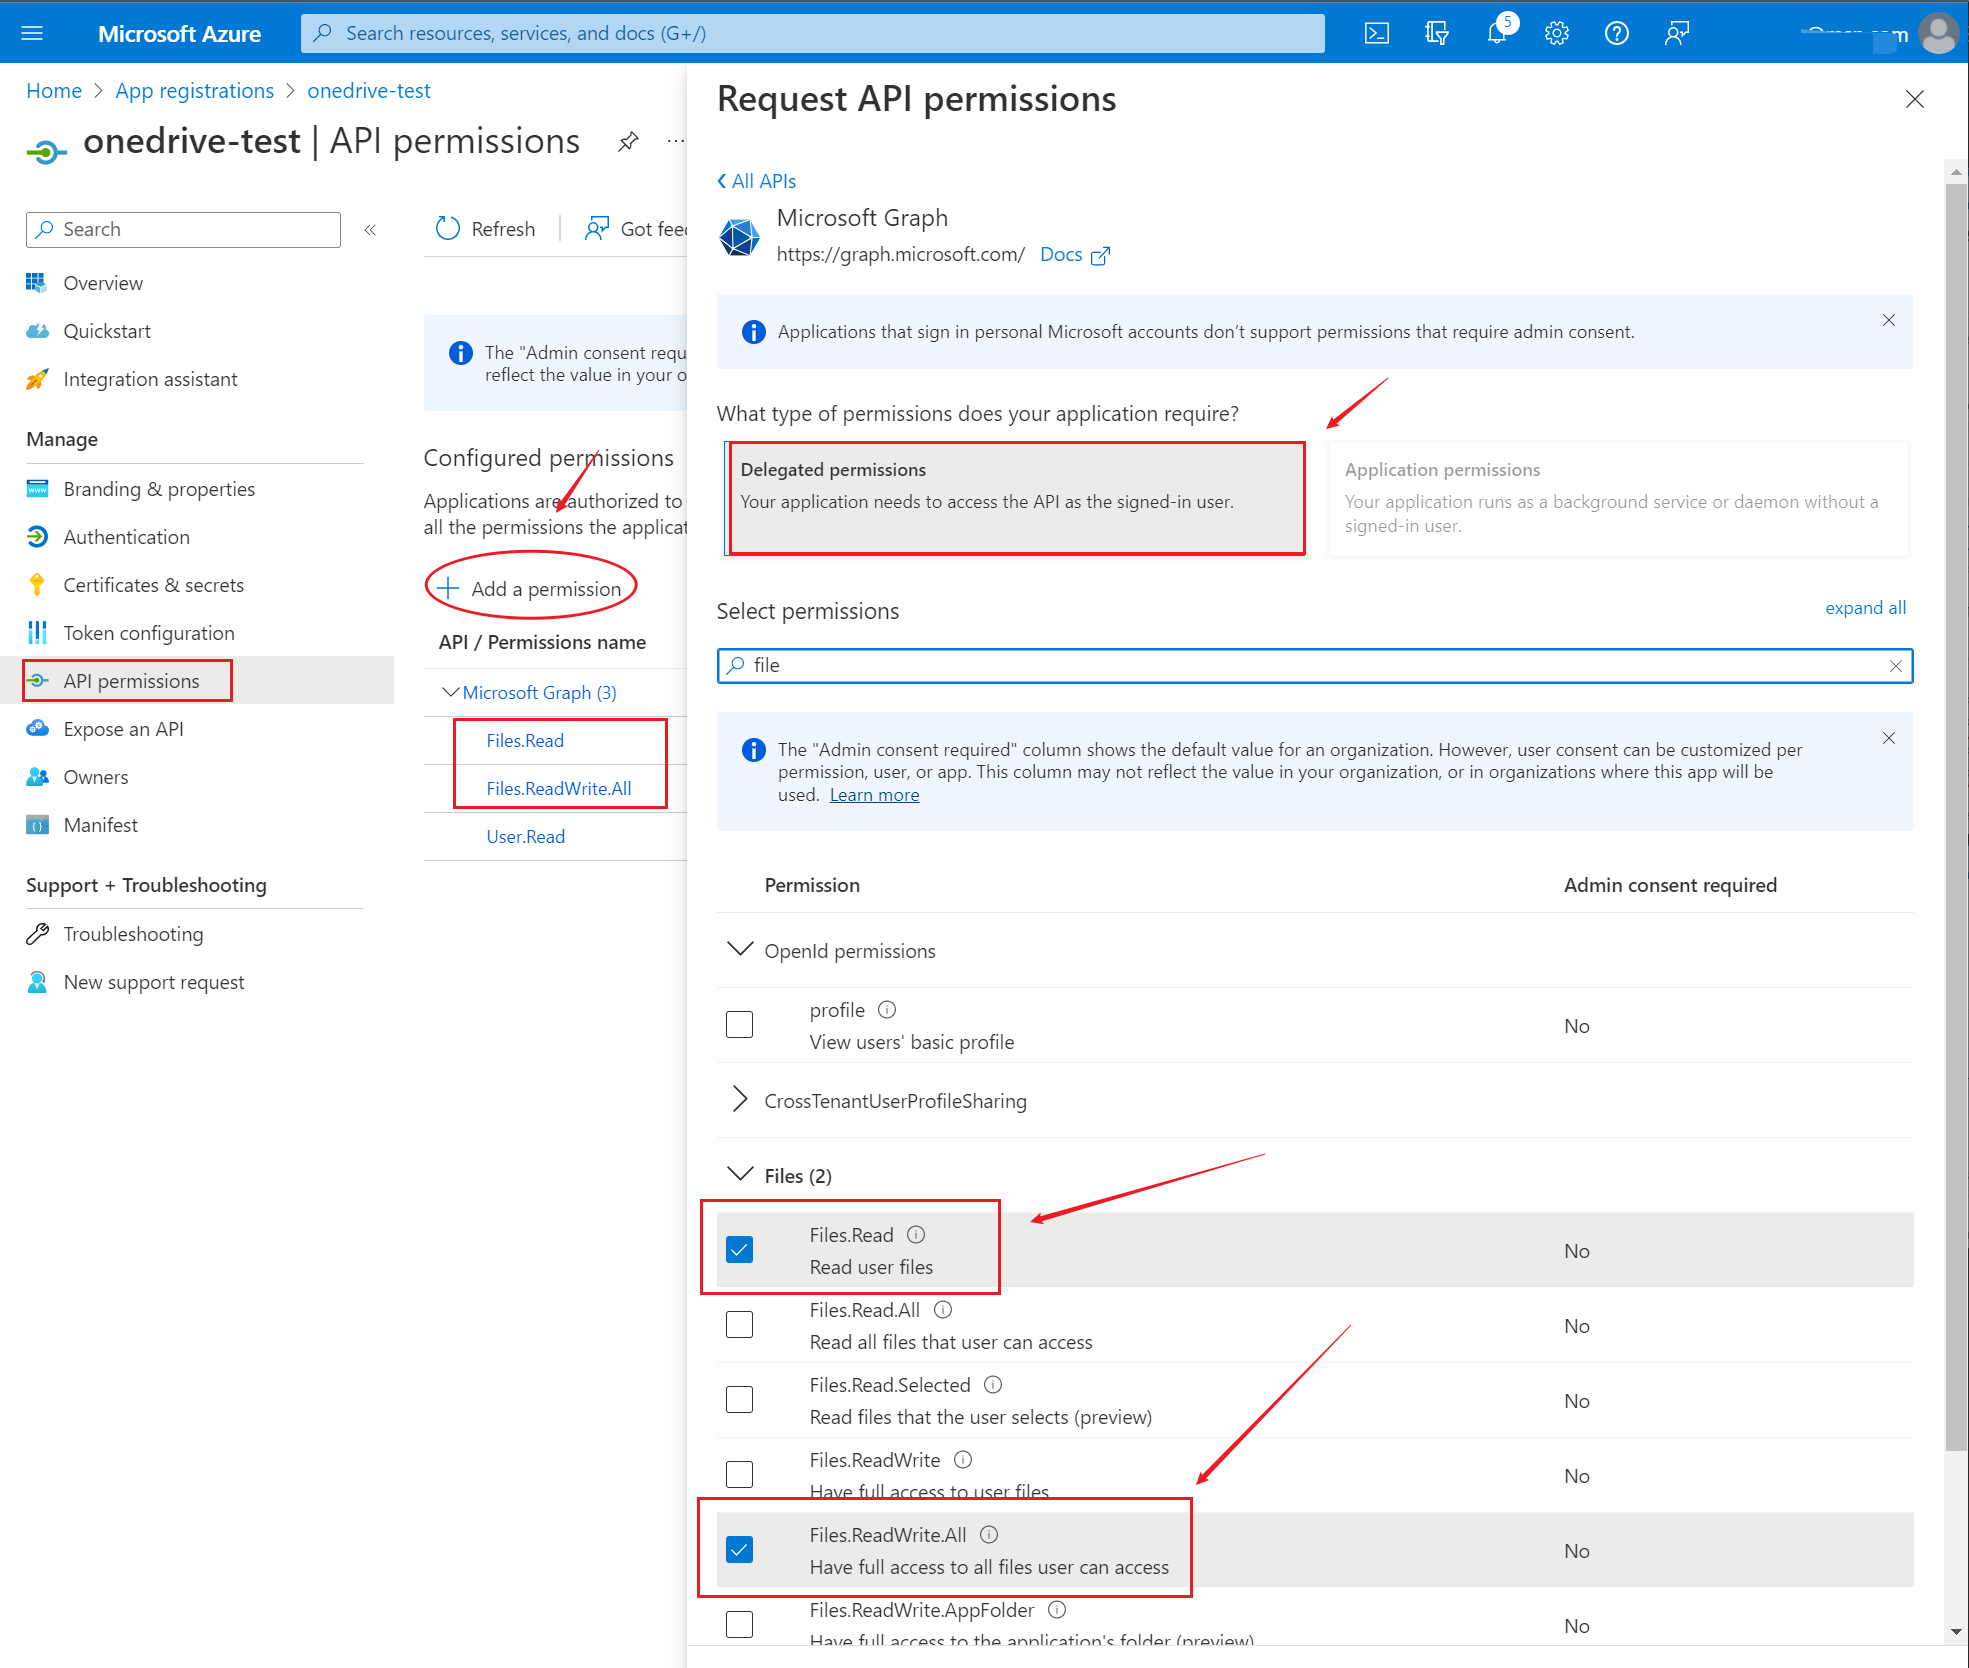
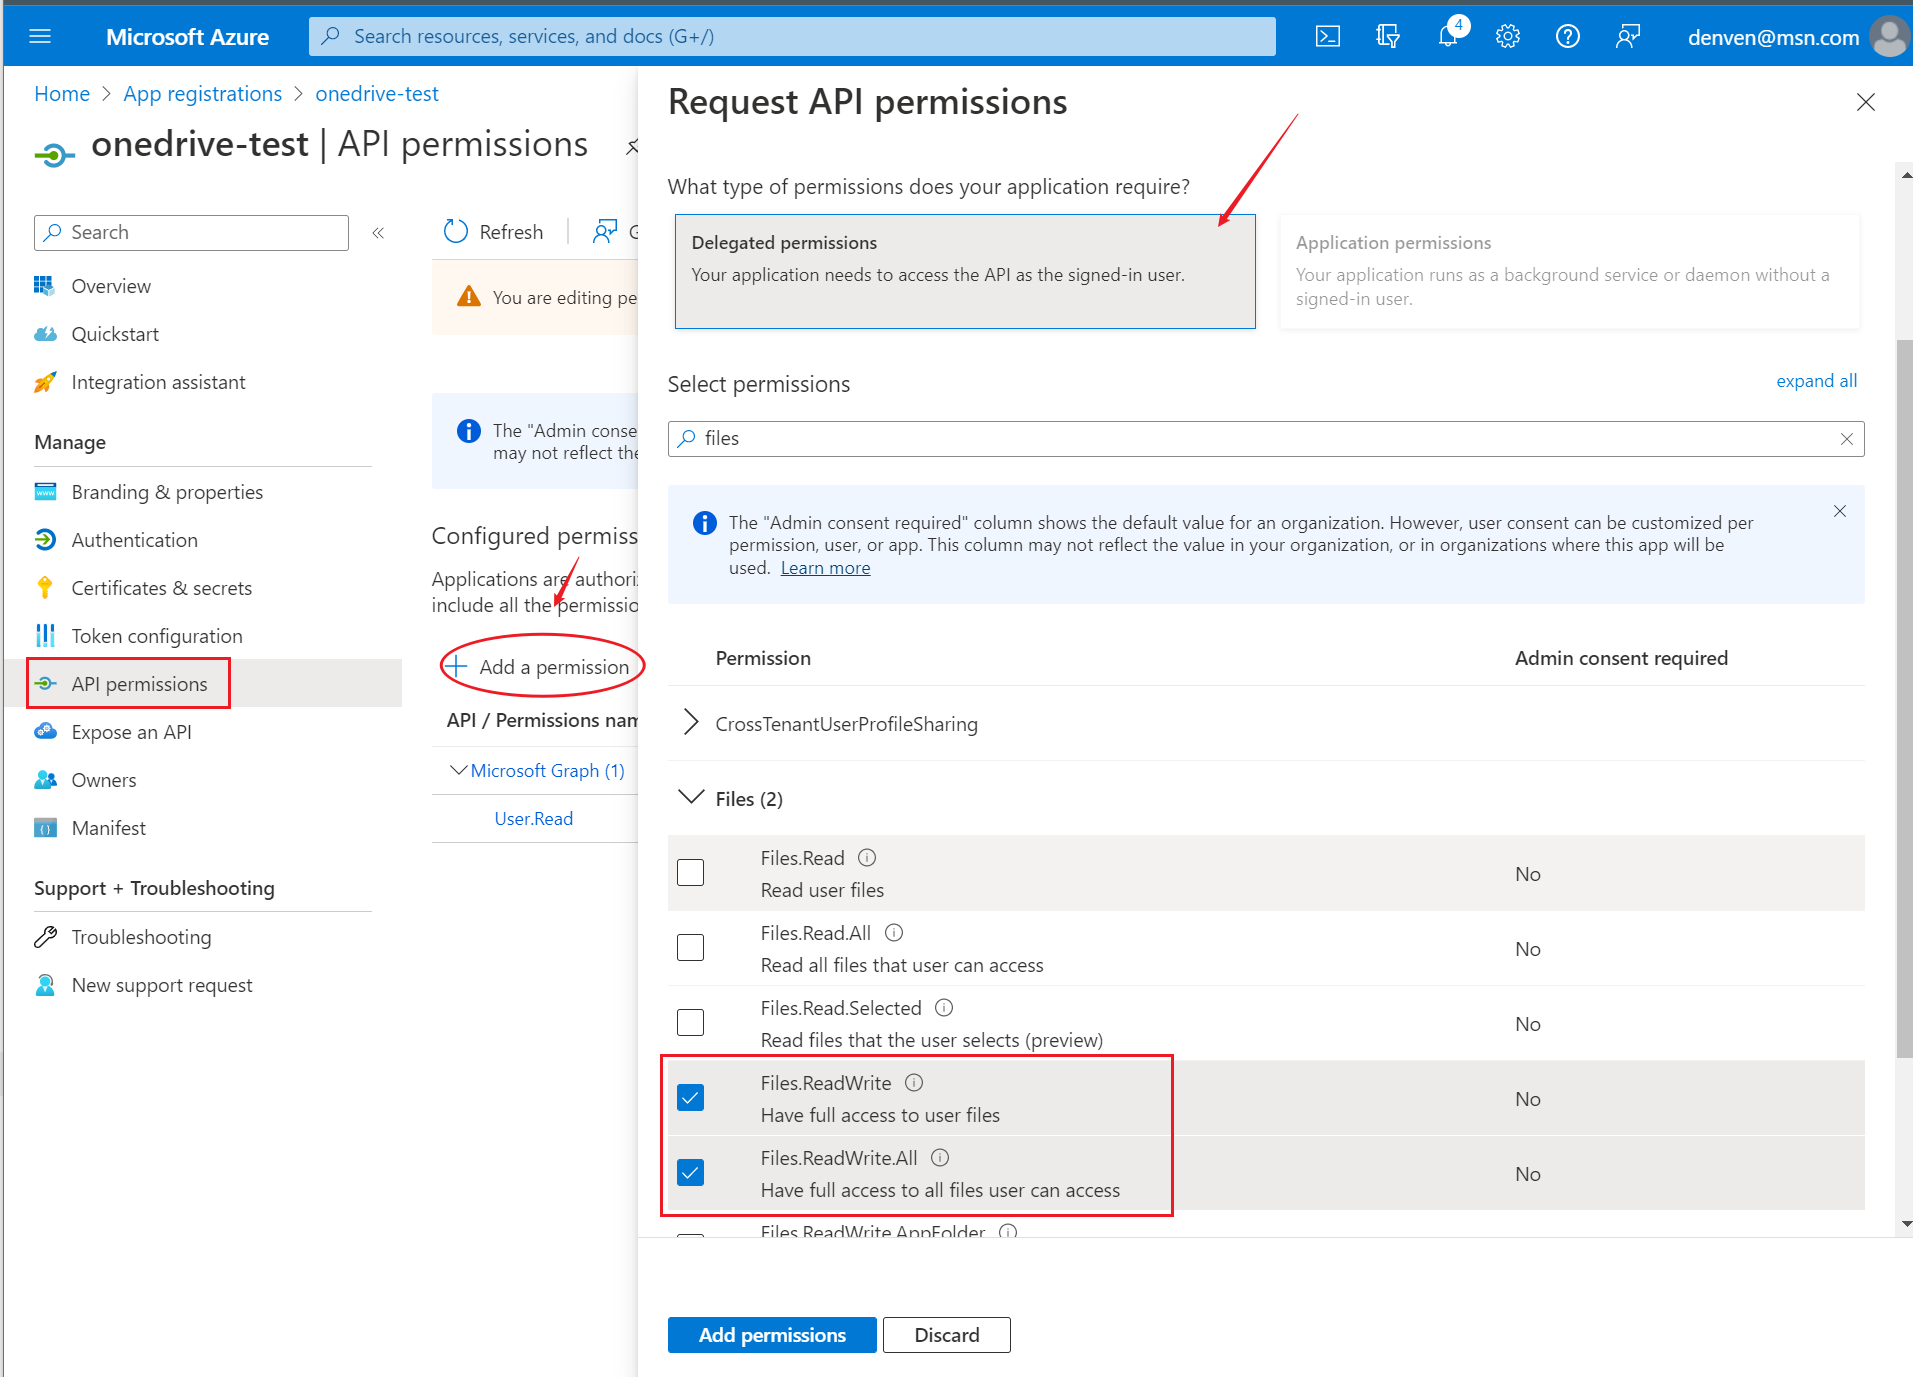
Avoid multiple shell processes, smarter configuration update check

diff --git a/README.md b/README.md
@@ -32,7 +32,7 @@ If you have a subscription of Microsoft OneDrive Stroage or Microsoft 365 Develo
 - For business/organization tenant user, add `Files.ReadWrite.All`
 ![Set up API Permissions](./screenshots/API_permissions_1.png)
 ![Set up API Permissions](./screenshots/API_permissions_2.png)
-- For personal account user, add `Files.Read` and `Files.ReadWrite.All`
+- For personal account user, add `Files.ReadWrite` and `Files.ReadWrite.All`
 ![Set up API Permissions](./screenshots/API_permissions_Personal.png)
 
 
@@ -42,7 +42,7 @@ If you have a subscription of Microsoft OneDrive Stroage or Microsoft 365 Develo
 4. create a client secret and save the secret **Value** for next steps
 ![Get client credential](./screenshots/client_secret.png)
 
-5. Authentication setting for personal account type only:
+5. Authentication setting for personal account type only
 ![Authentication](./screenshots/personal_authentication.png)   
 
 ### Use the repository code to upload your media files
@@ -60,19 +60,19 @@ If you have a subscription of Microsoft OneDrive Stroage or Microsoft 365 Develo
 ```
 - configuration key and value description
   
-|     Configuration key   |      default value      |     Required       |     note       |
+|     Configuration key   |      default value      |     Required       |     Description       |
 | :---------------------: | :---------------------: | :----------------: | :----------------: |
 |    grant_type | authorization_code | true |
 |    client_id | "" | true | fill in with your data
 |    client_secret | "" | true | fill in with your data
-|    tenant_id | "" | false | for person account type, make sure it is empty as ""; for tenant account type, it requires a tenant id.
-|    scope | https://graph.microsoft.com/.default | false |
-|    video_root_folder | yihack_videos | false |
+|    tenant_id | "" | true | for person account, set it as "consumers"; for tenant account, set a specific tenant id.
+|    scope | https://graph.microsoft.com/.default | true |
+|    video_root_folder | yihack_videos | true | name string without white spaces
 |    auto_clean_threshold | 90 | false | not supported yet
 |    enable_idle_transfer | false | false |
 
 
-3. upload the code and `config.json` files to your camera sd card via `ssh` with `root` account or a FTP tool, target path: `/tmp/sd/yi-hack`, make sure you've uploaded the required files to `/tmp/sd/yi-hack/onedrive`:
+1. upload the code and `config.json` files to your camera sd card via `ssh` with `root` account or a FTP tool, target path: `/tmp/sd/yi-hack`, make sure you've uploaded the required files to `/tmp/sd/yi-hack/onedrive`:
    - `init.sh`
    - `config.json`
    - `scripts` directory: with 4 shell script files inside: `api.sh`, `oauth2.sh`, `upload.sh`, `utils.sh`
@@ -95,10 +95,13 @@ cd /tmp/sd/yihack/onedrive/
 ```
 ![Ahthorize uploader](./screenshots/application_authorization.png)
 
-- Follow the URL redirections to consent, sign in, etc. and then get a authorization code, copy the code to your camera terminal and continue.
+- Follow the URL redirections to consent, sign in, etc. and then you will get a authorization code, copy the code to your camera terminal and continue.
 - Now, you've set up yourOneDrive uploader. The script will begin to search media files not uploaded from camera sd card to upload, it may throw some information or error messages on your terminal. Error message like `curl: option --data-binary: out of memory` is tolerable and has no issue to the file upload.
+![Successful configuration](./screenshots/successful_configuration.png)
+
 
 5. optional: reboot your camera
+
 
 ## Todo list
 - [ ] Auto-clean the oldest uploaded folders before the drive space is exhausted
